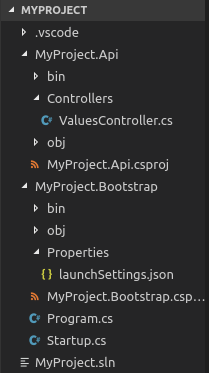
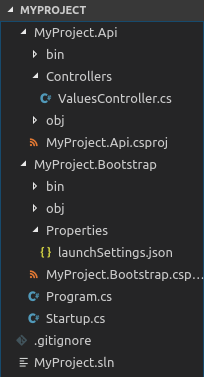
Modified template.json to exclude the image and readme files, also the vscode folder

diff --git a/README.md b/README.md
@@ -8,7 +8,7 @@ This template create a solution whith two separated projects:
 
 Also the packages referenced by those projects are the minimum required to run the application instead of make use of the *Microsoft.AspNetCore.App* package.
 
-You can check the .csproj files to know what are thes packages.
+You can check the .csproj files to know what are these packages.
 
 ## How to use it
 
@@ -52,4 +52,3 @@ Restore succeeded.
 - You can run the site with `dotnet run` from MyProject.Bootstrap folder and navigate to https://localhost:5001/api/values
 
 - If all works fine you can see the values on your browser, if you can't see them... fix the errors :-P
-
